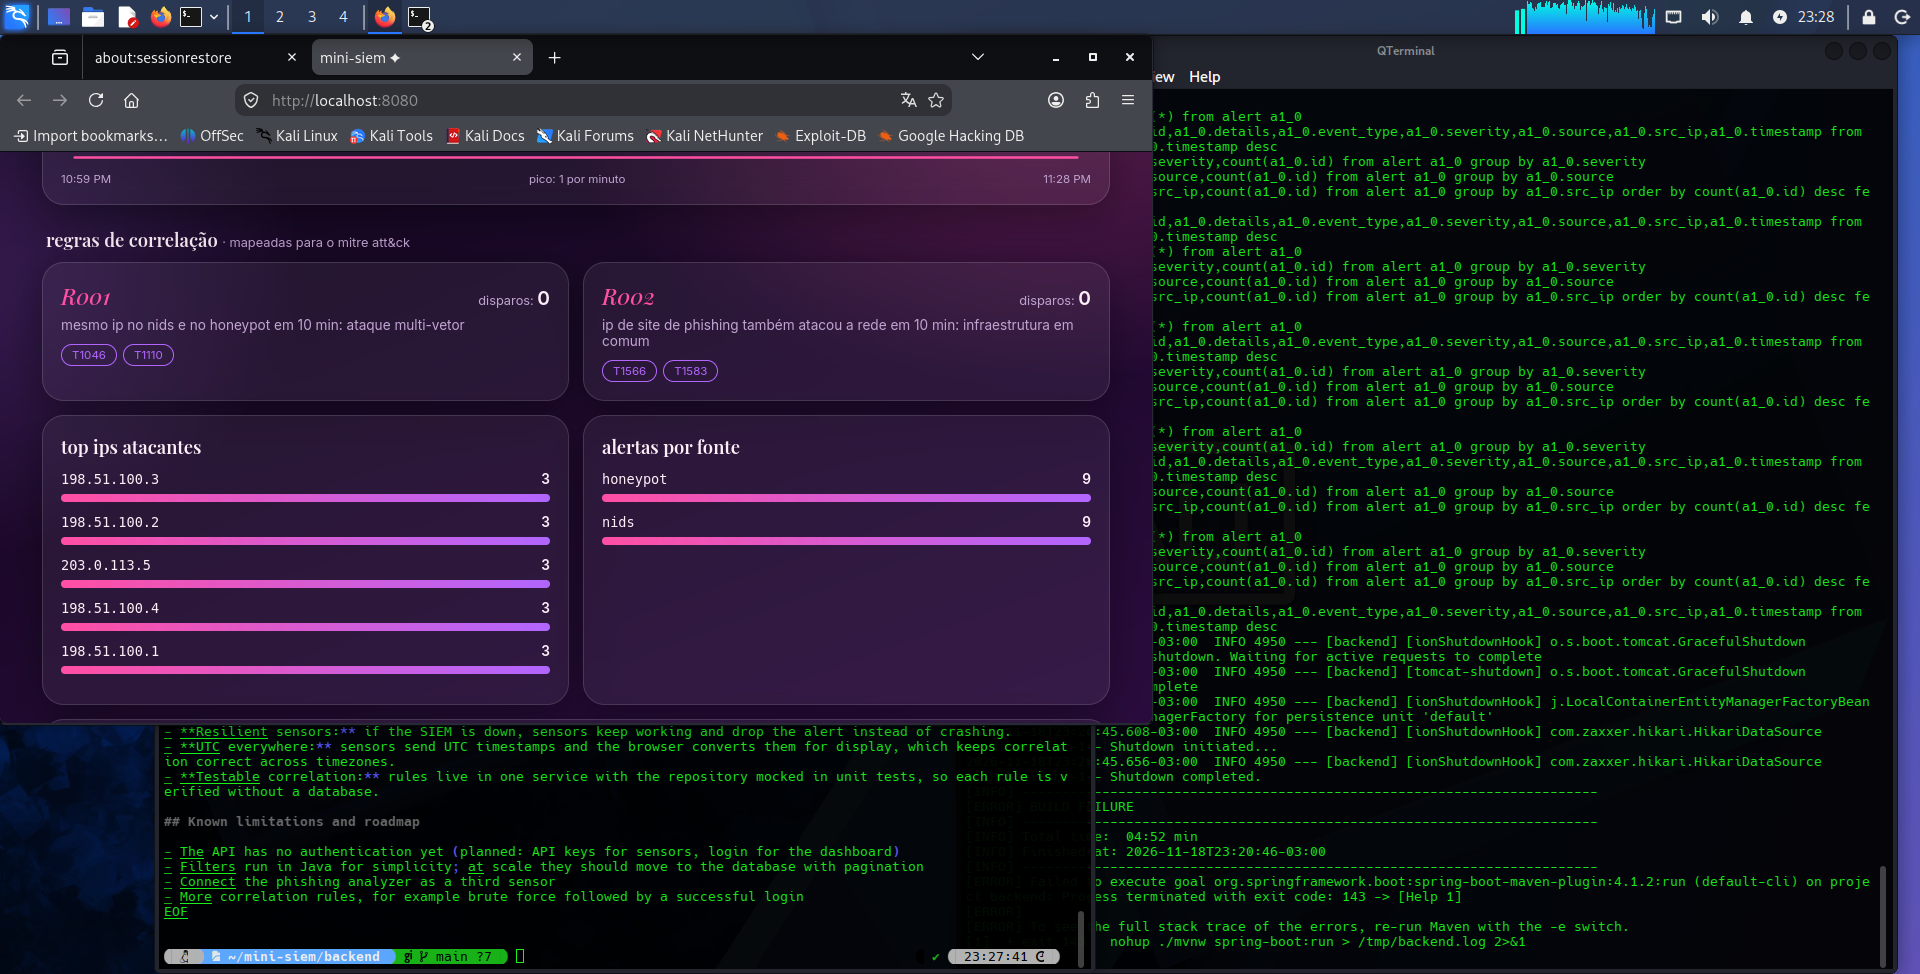
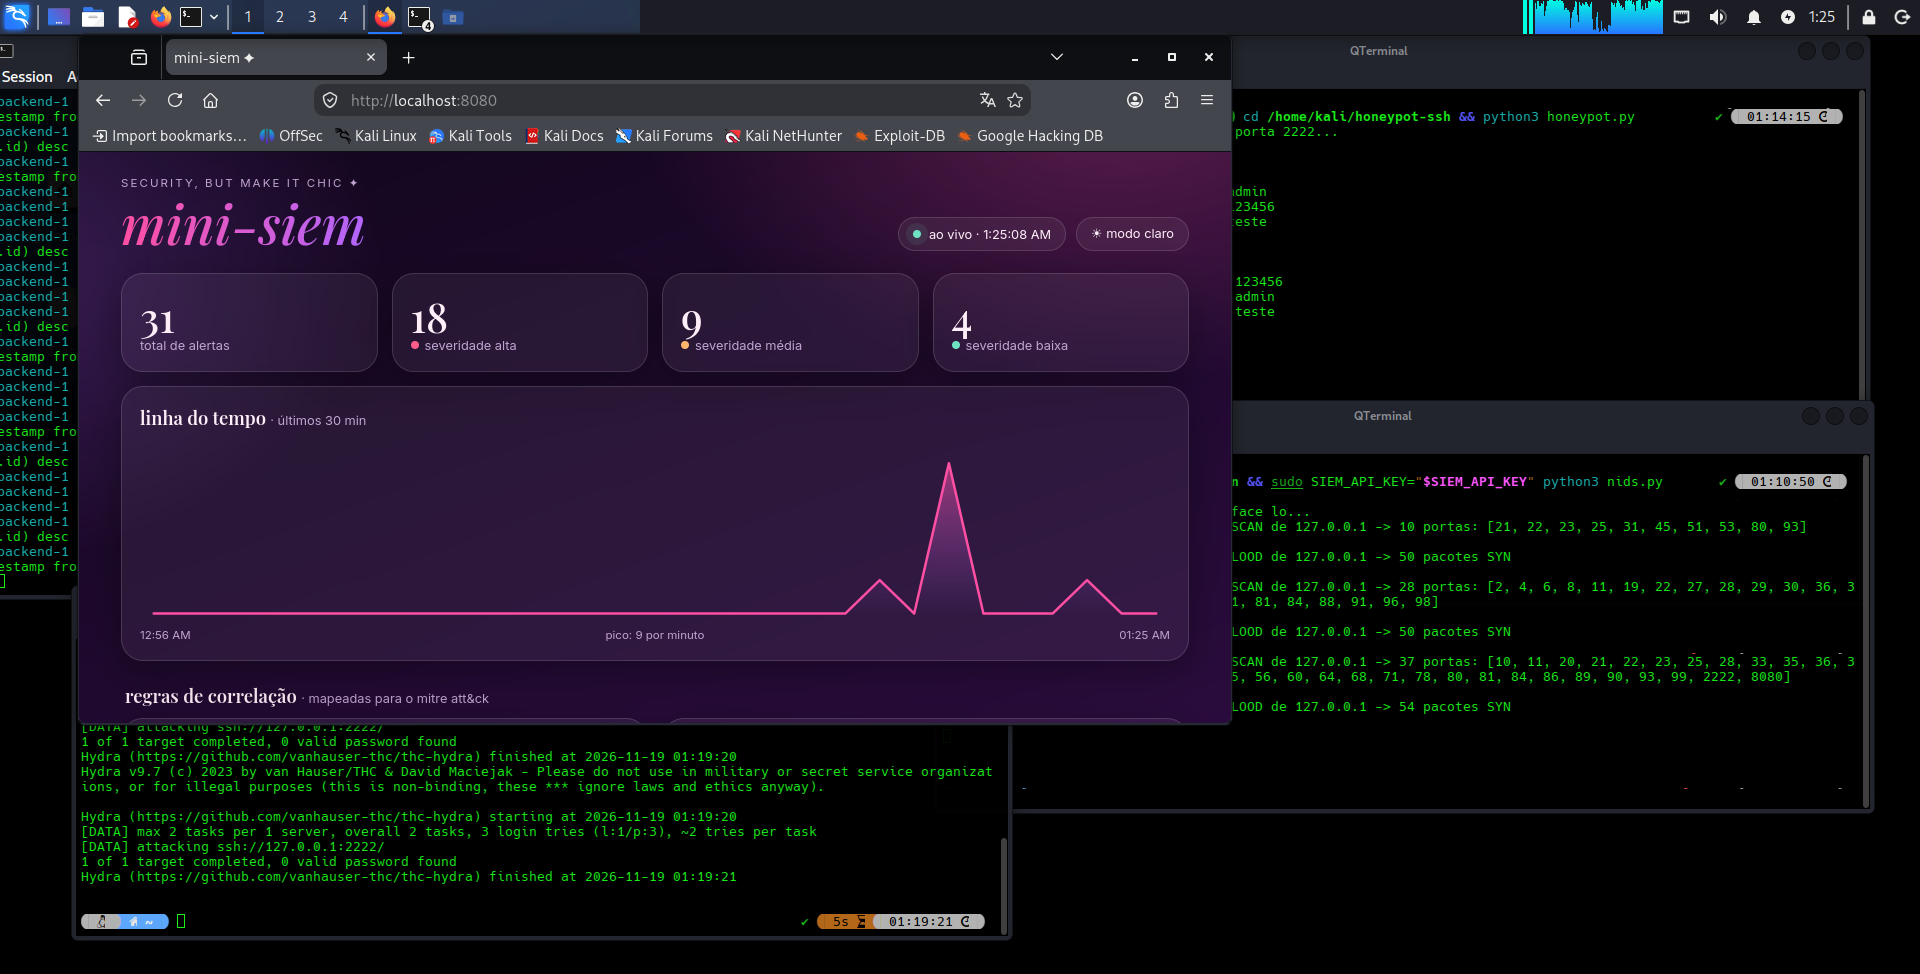
docs: connect phishing analyzer, final README and dashboard screenshot

diff --git a/README.md b/README.md
@@ -2,7 +2,7 @@
 
 ![CI](https://github.com/VitoriaChuarts/mini-siem/actions/workflows/ci.yml/badge.svg)
 
-A lightweight Security Information and Event Management (SIEM) system built from my own security tools. It collects alerts from an SSH honeypot and a network IDS, stores them in PostgreSQL, correlates events across sources and shows everything in a live dashboard.
+A lightweight Security Information and Event Management (SIEM) system built from my own security tools. It collects alerts from an SSH honeypot, a network IDS and a phishing analyzer, stores them in PostgreSQL, correlates events across sources and shows everything in a live dashboard.
 
 ![Dashboard](docs/dashboard.png)
 
@@ -12,7 +12,7 @@ A lightweight Security Information and Event Management (SIEM) system built from
 flowchart LR
     H["SSH Honeypot<br/>Python + Paramiko"] -->|POST /api/alerts| API
     N["NIDS<br/>Python + Scapy"] -->|POST /api/alerts| API
-    P["Phishing Analyzer<br/>Python"] -.->|planned| API
+    P["Phishing Analyzer<br/>Python"] -->|POST /api/alerts| API
     subgraph compose["Docker Compose"]
         API["Spring Boot API<br/>validation + correlation"] --> DB[("PostgreSQL")]
         API --> UI["Web dashboard"]
@@ -24,6 +24,7 @@ Every sensor sends alerts in one common JSON format (see `docs/formato-alerta.md
 ## Features
 
 - REST API with input validation (Bean Validation)
+- API key authentication for sensors (constant-time comparison, fail-closed startup)
 - Correlation engine with rules mapped to MITRE ATT&CK
 - Live dashboard: counters, timeline, top attacking IPs, alerts per source, filters, rule hit counters
 - One-command deployment with Docker Compose (multi-stage build, database healthcheck)
@@ -40,7 +41,7 @@ Java 25, Spring Boot 4, Spring Data JPA, PostgreSQL 16, Docker Compose, GitHub A
 | R001 | Same IP seen by the NIDS and the honeypot within 10 minutes       | `multi_vector_attack`, severity high     | T1046, T1110 |
 | R002 | Same IP seen by the phishing analyzer and by the NIDS or honeypot | `infrastructure_overlap`, severity high  | T1566, T1583 |
 
-R002 is implemented and unit-tested; it starts firing once the phishing analyzer is connected as a sensor.
+R002 uses the IP a phishing domain resolves to, so it fires when the same infrastructure also attacks the network.
 
 ## API
 
@@ -49,6 +50,8 @@ R002 is implemented and unit-tested; it starts firing once the phishing analyzer
 | POST   | `/api/alerts`      | Ingest an alert (validated)                                  |
 | GET    | `/api/alerts`      | List alerts, newest first. Filters: `severity`, `source`, `ip`, `limit` |
 | GET    | `/api/stats`       | Totals, counts by severity and source, top attacking IPs     |
+
+Sending alerts requires the `X-API-Key` header; reading is open.
 
 Alert format:
 
@@ -68,7 +71,7 @@ Alert format:
 ```bash
 git clone https://github.com/VitoriaChuarts/mini-siem.git
 cd mini-siem
-cp .env.example .env      # set a strong POSTGRES_PASSWORD
+cp .env.example .env      # set POSTGRES_PASSWORD and generate SIEM_API_KEY with: openssl rand -hex 32
 docker compose up -d --build
 ```
 
@@ -78,6 +81,7 @@ Open http://localhost:8080. Run the tests with `cd backend && ./mvnw test`.
 
 - [SSH Honeypot](https://github.com/VitoriaChuarts/honeypot-ssh): Python and Paramiko, captures attacker credentials
 - [NIDS](https://github.com/VitoriaChuarts/nids-python): Python and Scapy, detects port scans and SYN floods
+- [Phishing Analyzer](https://github.com/VitoriaChuarts/analisador-de-phishing): Python, scores URLs and emails; medium/high risk results are sent to the SIEM using the IP the phishing domain resolves to
 
 ## Design decisions
 
@@ -86,11 +90,11 @@ Open http://localhost:8080. Run the tests with `cd backend && ./mvnw test`.
 - **Smaller attack surface:** multi-stage Docker build, and PostgreSQL is not exposed outside the Compose network.
 - **Resilient sensors:** if the SIEM is down, sensors keep working and drop the alert instead of crashing.
 - **UTC everywhere:** sensors send UTC timestamps and the browser converts them for display, which keeps correlation correct across timezones.
+- **API key hygiene:** the key is compared in constant time to avoid timing attacks, is never hardcoded (sensors read it from an environment variable), and the backend refuses to start without one.
 - **Testable correlation:** rules live in one service with the repository mocked in unit tests, so each rule is verified without a database.
 
 ## Known limitations and roadmap
 
-- The API has no authentication yet (planned: API keys for sensors, login for the dashboard)
+- Sensors authenticate with an API key, but the dashboard and read endpoints are still open (planned: login with Spring Security)
 - Filters run in Java for simplicity; at scale they should move to the database with pagination
-- Connect the phishing analyzer as a third sensor
 - More correlation rules, for example brute force followed by a successful login
